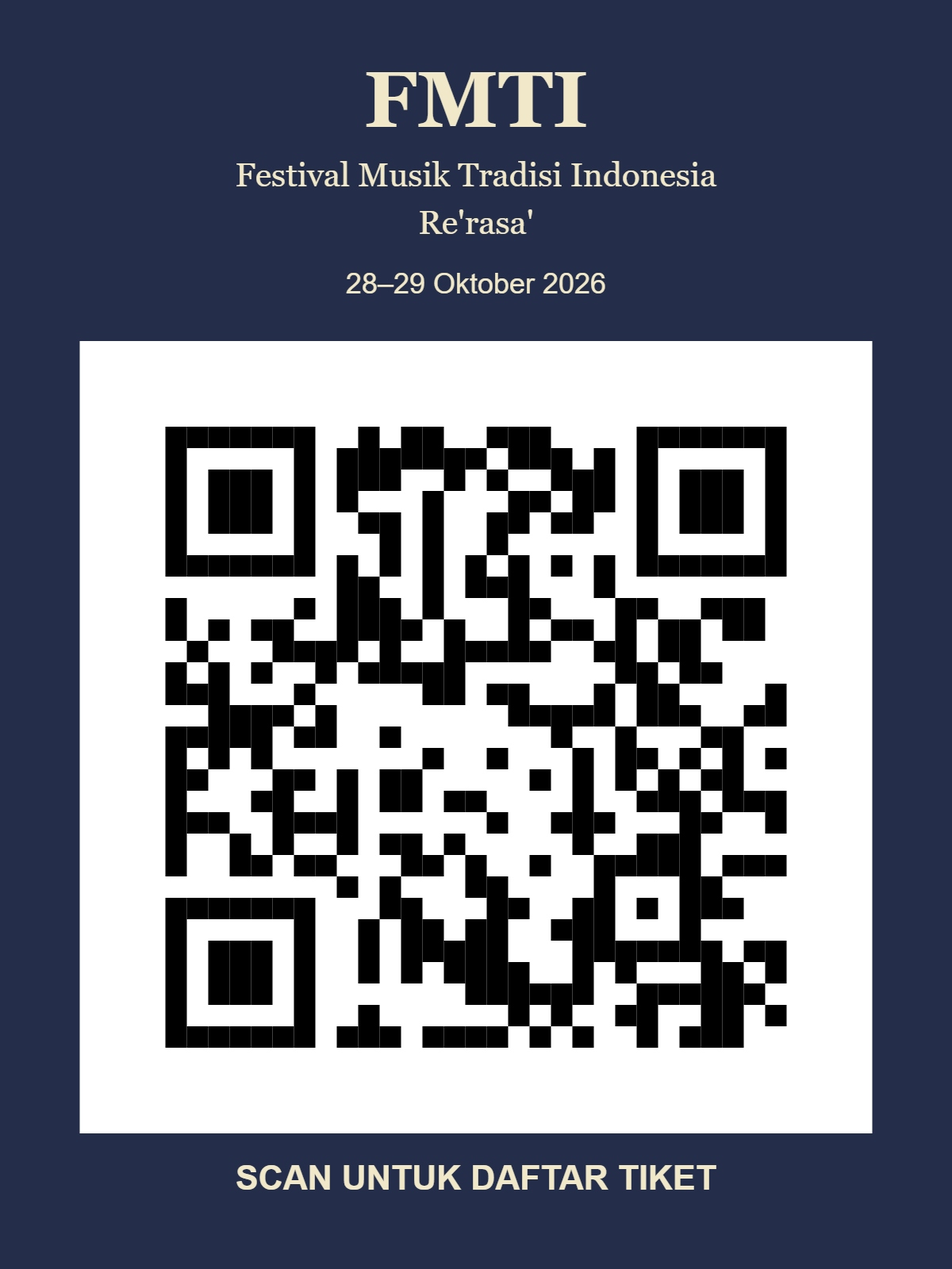
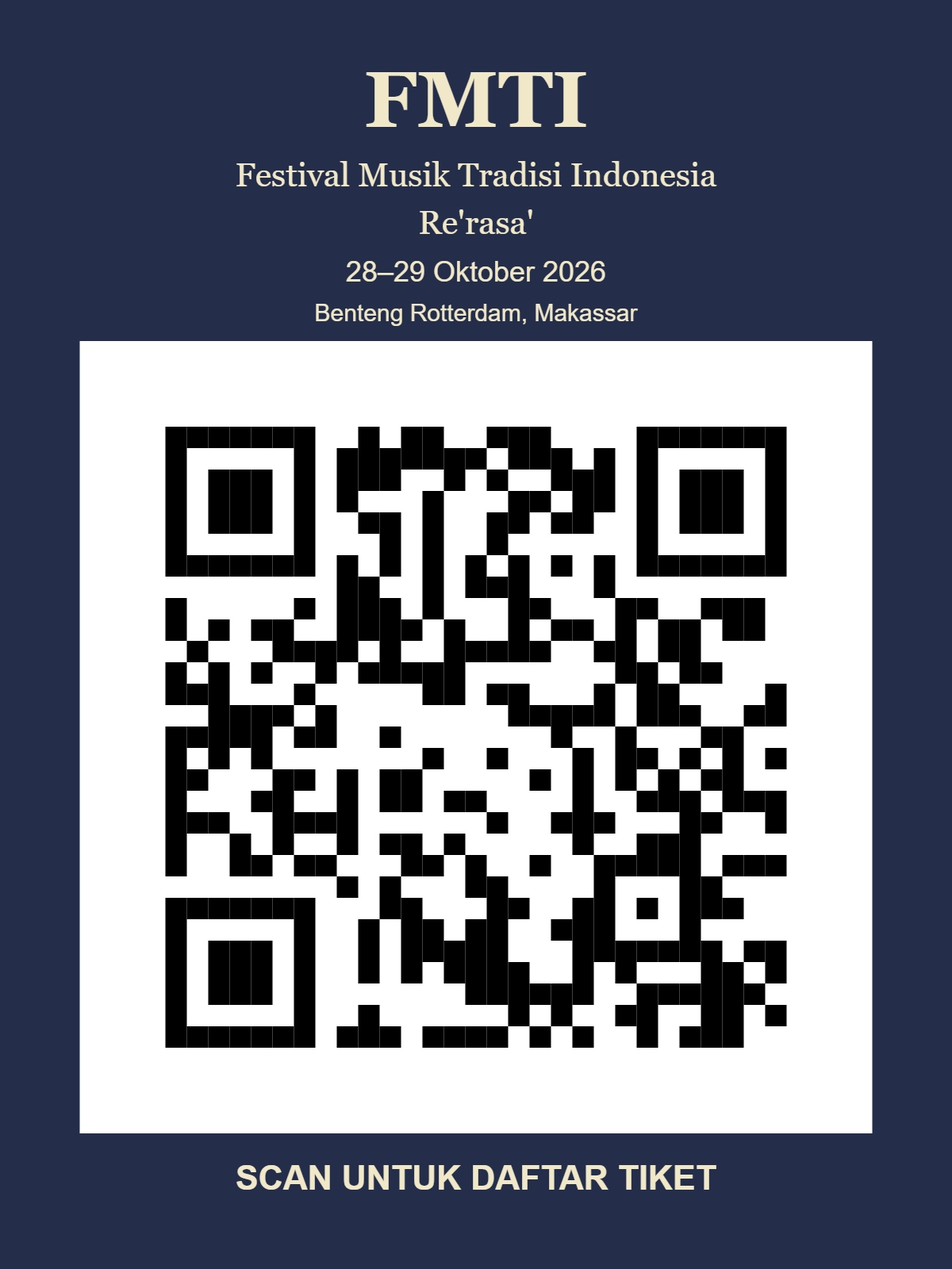
Add Fort Rotterdam venue and manual concert attendance confirmation

Changed region(s): [[0.3392, 0.1875, 0.6475, 0.25]]

diff --git a/concert-admin.js b/concert-admin.js
@@ -2,10 +2,10 @@
 const tabs=active=>'<div class="cms-actions attendance-tabs"><a class="button '+(active==='pameran'?'':'secondary')+'" href="#tamu">Pengunjung pameran</a><a class="button '+(active==='konser'?'':'secondary')+'" href="#konser">Penonton konser FMTI</a></div>';
 const when=value=>value?new Date(value).toLocaleString('id-ID',{timeZone:'Asia/Makassar'}):'Belum check-in';
 async function request(path,data,method){const r=await fetch('/api/admin/concert/'+path,{method:method||(data?'POST':'GET'),cache:'no-store',headers:data?{'Content-Type':'application/json'}:{},...(data?{body:JSON.stringify(data)}:{})});let v;try{v=await r.json()}catch{throw Error('Respons konser belum tersedia.')}if(!r.ok)throw Error(v.error||'Data konser tidak dapat dimuat.');return v}
-const summary=s=>'<div class="concert-stats"><article><strong>'+s.registered+'</strong><span>Tiket terdaftar</span></article><article><strong>'+s.arrivedUnique+'</strong><span>Tiket unik sudah check-in</span></article><article><strong>'+s.day1+'</strong><span>Check-in 28 Oktober</span></article><article><strong>'+s.day2+'</strong><span>Check-in 29 Oktober</span></article></div><p class="quiet">Total kunjungan konser: '+s.checkins+' · Percobaan scan: '+s.scanAttempts+' · Scan ulang: '+s.duplicates+'. Satu tiket check-in dua hari dihitung satu tiket unik dan dua check-in.</p>';
+const summary=s=>'<div class="concert-stats"><article><strong>'+s.registered+'</strong><span>Tiket terdaftar</span></article><article><strong>'+s.arrivedUnique+'</strong><span>Tiket unik sudah check-in</span></article><article><strong>'+s.day1+'</strong><span>Check-in 28 Oktober</span></article><article><strong>'+s.day2+'</strong><span>Check-in 29 Oktober</span></article></div><p class="quiet">Total kunjungan konser: '+s.checkins+' · Pencatatan hadir: '+s.scanAttempts+' · Scan ulang: '+s.duplicates+'. Satu tiket check-in dua hari dihitung satu tiket unik dan dua check-in.</p>';
 async function loadScanners(){try{const rows=await request('scanners');if(!$('scannerSessions'))return;$('scannerSessions').innerHTML=rows.length?rows.map(s=>'<article class="scanner-session"><strong>'+esc(s.label)+'</strong><span>'+esc(s.revoked_at?'Dicabut':'Berlaku hingga '+when(s.expires_at))+'</span>'+(!s.revoked_at?'<button class="secondary" data-revoke-scanner="'+esc(s.id)+'">Cabut akses</button>':'')+'</article>').join(''):'<p>Belum ada akses pemindai.</p>';document.querySelectorAll('[data-revoke-scanner]').forEach(button=>button.onclick=async()=>{if(!confirm('Cabut akses '+button.closest('article').querySelector('strong').textContent+'?'))return;try{await request('scanners/'+button.dataset.revokeScanner,null,'DELETE');loadScanners()}catch(e){$('concertAdminStatus').textContent=e.message}})}catch(e){if($('scannerSessions'))$('scannerSessions').textContent=e.message}}
-function renderConcert(){const epoch=++generation;main.innerHTML=tabs('konser')+'<p class="eyebrow">FMTI / konser 28–29 Oktober 2026</p><h1>Registrasi & kehadiran konser.</h1><p>Data konser terpisah dari pameran. Jumlah hadir resmi hanya bertambah setelah server mengonfirmasi pemindaian panitia.</p><div id="concertStats" role="status">Memuat jumlah…</div><form id="concertFilters" class="cms-guest-filters"><label>Cari nama, kontak, daerah, negara, tiket<input name="q" type="search"></label><label>Hari kehadiran<select name="day"><option value="">Kedua hari</option><option value="2026-10-28">28 Oktober</option><option value="2026-10-29">29 Oktober</option></select></label><label>Status<select name="status"><option value="">Semua status</option><option value="arrived">Sudah check-in</option><option value="pending">Belum check-in</option></select></label><label>Registrasi mulai (WITA)<input name="from" type="date"></label><label>Registrasi sampai (WITA)<input name="to" type="date"></label><div class="cms-actions"><button>Terapkan</button><button type="reset" class="secondary">Reset</button></div></form><div class="cms-actions"><button id="reloadConcert">Muat ulang data</button><a id="exportConcert" class="button secondary" href="/api/admin/concert/guests.csv">Unduh CSV konser</a><a class="button secondary" href="/registrasi" target="_blank" rel="noopener">Buka registrasi ↗</a><a class="button secondary" href="/public/qr-print/QR-REGISTRASI-FMTI.jpg" download>Unduh QR pendaftaran JPG</a></div><p class="quiet">IP registrasi adalah IP jaringan yang dilihat server, dapat dipakai banyak perangkat, dan bukan bukti identitas atau kehadiran.</p><div id="concertRows" role="status">Memuat data…</div><details class="panel"><summary>Log audit pemindaian (200 terakhir)</summary><button id="loadConcertAudit">Muat log sesuai hari filter</button><div id="concertAudit"></div></details><section class="panel"><h2>Akses pemindai panitia</h2><p>Buat satu akses untuk setiap HP. Tautan hanya memberi izin mengunduh daftar tiket terbatas dan mencatat check-in; tidak memberi akses kontak, IP, atau editor website.</p><form id="createScanner"><label>Nama perangkat / gerbang<input name="label" maxlength="80" required placeholder="Gerbang A · HP Panitia 1"></label><button>Buat tautan akses</button></form><p id="concertAdminStatus" role="status"></p><div id="newScannerLink" class="scanner-link-result"></div><div id="scannerSessions"></div><p class="quiet">Sebelum offline, buka tautan pada HP panitia dan tekan Unduh / perbarui daftar. Setelah acara, sinkronkan seluruh antrean sebelum mencabut akses atau menghapus data HP.</p></section>';
-let page=1,loadId=0;async function load(){const id=++loadId,params=new URLSearchParams(new FormData($('concertFilters')));params.set('page',page);$('exportConcert').href='/api/admin/concert/guests.csv?'+params;try{const [stats,result]=await Promise.all([request('stats'),request('guests?'+params)]);if(epoch!==generation||id!==loadId||!$('concertRows'))return;$('concertStats').innerHTML=summary(stats);$('concertRows').innerHTML='<p>'+result.total+' hasil · halaman '+result.page+' / '+result.pages+'</p><div class="guest-table-wrap"><table class="guest-table"><thead><tr><th>Nama / tiket</th><th>Kontak</th><th>Asal</th><th>Registrasi WITA</th><th>IP registrasi</th><th>28 Oktober</th><th>29 Oktober</th></tr></thead><tbody>'+result.rows.map(g=>'<tr><td>'+esc(g.name)+'<br><small>'+esc(g.code)+'</small></td><td>'+esc(g.contact)+'</td><td>'+esc([g.city,g.country].filter(Boolean).join(' · '))+'</td><td>'+esc(when(g.registered_at))+'</td><td>'+esc(g.registration_ip||'Tidak tersedia')+'</td><td>'+esc(when(g.day1_checked_in_at))+'</td><td>'+esc(when(g.day2_checked_in_at))+'</td></tr>').join('')+'</tbody></table></div>'+(!result.rows.length?'<p>Belum ada data yang sesuai.</p>':'')+'<div class="cms-actions"><button id="concertPrev" class="secondary" '+(page<=1?'disabled':'')+'>← Sebelumnya</button><button id="concertNext" class="secondary" '+(page>=result.pages?'disabled':'')+'>Berikutnya →</button></div>';$('concertPrev').onclick=()=>{page--;load()};$('concertNext').onclick=()=>{page++;load()}}catch(e){if($('concertRows'))$('concertRows').textContent=e.message;if($('concertStats'))$('concertStats').textContent='Jumlah belum dapat dimuat.'}}
+function renderConcert(){const epoch=++generation;main.innerHTML=tabs('konser')+'<p class="eyebrow">FMTI / konser 28–29 Oktober 2026</p><h1>Registrasi & kehadiran konser.</h1><p>Seluruh pendaftar tiket tampil di tabel ini, termasuk yang belum dipindai. Saat kamera bermasalah, periksa tiket yang ditunjukkan lalu gunakan konfirmasi hadir manual. Angka terdaftar dan hadir dihitung terpisah.</p><div id="concertStats" role="status">Memuat jumlah…</div><form id="concertFilters" class="cms-guest-filters"><label>Cari nama, kontak, daerah, negara, tiket<input name="q" type="search"></label><label>Hari kehadiran<select name="day"><option value="">Kedua hari</option><option value="2026-10-28">28 Oktober</option><option value="2026-10-29">29 Oktober</option></select></label><label>Status<select name="status"><option value="">Semua status</option><option value="arrived">Sudah check-in</option><option value="pending">Belum check-in</option></select></label><label>Registrasi mulai (WITA)<input name="from" type="date"></label><label>Registrasi sampai (WITA)<input name="to" type="date"></label><div class="cms-actions"><button>Terapkan</button><button type="reset" class="secondary">Reset</button></div></form><div class="cms-actions"><button id="reloadConcert">Muat ulang data</button><a id="exportConcert" class="button secondary" href="/api/admin/concert/guests.csv">Unduh CSV konser</a><a class="button secondary" href="/registrasi" target="_blank" rel="noopener">Buka registrasi ↗</a><a class="button secondary" href="/public/qr-print/QR-REGISTRASI-FMTI.jpg" download>Unduh QR pendaftaran JPG</a></div><p class="quiet">IP registrasi adalah IP jaringan yang dilihat server, dapat dipakai banyak perangkat, dan bukan bukti identitas atau kehadiran.</p><div id="concertRows" role="status">Memuat data…</div><details class="panel"><summary>Log audit pemindaian (200 terakhir)</summary><button id="loadConcertAudit">Muat log sesuai hari filter</button><div id="concertAudit"></div></details><section class="panel"><h2>Akses pemindai panitia</h2><p>Buat satu akses untuk setiap HP. Tautan hanya memberi izin mengunduh daftar tiket terbatas dan mencatat check-in; tidak memberi akses kontak, IP, atau editor website.</p><form id="createScanner"><label>Nama perangkat / gerbang<input name="label" maxlength="80" required placeholder="Gerbang A · HP Panitia 1"></label><button>Buat tautan akses</button></form><p id="concertAdminStatus" role="status"></p><div id="newScannerLink" class="scanner-link-result"></div><div id="scannerSessions"></div><p class="quiet">Sebelum offline, buka tautan pada HP panitia dan tekan Unduh / perbarui daftar. Setelah acara, sinkronkan seluruh antrean sebelum mencabut akses atau menghapus data HP.</p></section>';
+let page=1,loadId=0;async function load(){const id=++loadId,params=new URLSearchParams(new FormData($('concertFilters')));params.set('page',page);$('exportConcert').href='/api/admin/concert/guests.csv?'+params;try{const [stats,result]=await Promise.all([request('stats'),request('guests?'+params)]);if(epoch!==generation||id!==loadId||!$('concertRows'))return;$('concertStats').innerHTML=summary(stats);$('concertRows').innerHTML='<p>'+result.total+' hasil · halaman '+result.page+' / '+result.pages+'</p><div class="guest-table-wrap"><table class="guest-table"><thead><tr><th>Nama / tiket</th><th>Kontak</th><th>Asal</th><th>Registrasi WITA</th><th>IP registrasi</th><th>28 Oktober</th><th>29 Oktober</th><th>Konfirmasi tanpa scan</th></tr></thead><tbody>'+result.rows.map(g=>'<tr><td>'+esc(g.name)+'<br><small>'+esc(g.code)+'</small></td><td>'+esc(g.contact)+'</td><td>'+esc([g.city,g.country].filter(Boolean).join(' · '))+'</td><td>'+esc(when(g.registered_at))+'</td><td>'+esc(g.registration_ip||'Tidak tersedia')+'</td><td>'+esc(when(g.day1_checked_in_at))+'</td><td>'+esc(when(g.day2_checked_in_at))+'</td><td><button class="secondary" data-manual-code="'+esc(g.code)+'" data-manual-name="'+esc(g.name)+'">Konfirmasi hadir</button></td></tr>').join('')+'</tbody></table></div>'+(!result.rows.length?'<p>Belum ada data yang sesuai.</p>':'')+'<div class="cms-actions"><button id="concertPrev" class="secondary" '+(page<=1?'disabled':'')+'>← Sebelumnya</button><button id="concertNext" class="secondary" '+(page>=result.pages?'disabled':'')+'>Berikutnya →</button></div>';document.querySelectorAll('[data-manual-code]').forEach(button=>button.onclick=async()=>{const day=new Intl.DateTimeFormat('en-CA',{timeZone:'Asia/Makassar',year:'numeric',month:'2-digit',day:'2-digit'}).format(new Date());if(!['2026-10-28','2026-10-29'].includes(day)){alert('Konfirmasi hadir hanya pada 28 atau 29 Oktober 2026, sesuai tanggal WITA.');return}if(!confirm('Tiket '+button.dataset.manualCode+' atas nama '+button.dataset.manualName+' sudah ditunjukkan dan pengunjung hadir di gerbang pada '+day+'?'))return;button.disabled=true;try{const value=await request('manual-checkin',{code:button.dataset.manualCode,eventDate:day,requestId:crypto.randomUUID()});alert(value.status==='checked_in'?'Kehadiran tercatat.':'Tiket sudah check-in hari ini.');load()}catch(e){alert(e.message);button.disabled=false}});$('concertPrev').onclick=()=>{page--;load()};$('concertNext').onclick=()=>{page++;load()}}catch(e){if($('concertRows'))$('concertRows').textContent=e.message;if($('concertStats'))$('concertStats').textContent='Jumlah belum dapat dimuat.'}}
 $('loadConcertAudit').onclick=async()=>{try{const day=$('concertFilters').elements.day.value,rows=await request('audit?'+new URLSearchParams({day}));$('concertAudit').innerHTML='<div class="guest-table-wrap"><table class="guest-table"><thead><tr><th>Tiket</th><th>Hari</th><th>Hasil</th><th>Waktu HP (WITA)</th><th>Diterima server (WITA)</th><th>IP panitia</th><th>Mode</th></tr></thead><tbody>'+rows.map(r=>'<tr><td>'+esc(r.ticket_code||'Tidak ditemukan')+'</td><td>'+esc(r.event_date)+'</td><td>'+esc(r.status)+'</td><td>'+esc(when(r.client_scanned_at))+'</td><td>'+esc(when(r.server_received_at))+'</td><td>'+esc(r.scanner_ip||'Tidak tersedia')+'</td><td>'+esc(r.offline?'Offline → sinkron':'Online')+'</td></tr>').join('')+'</tbody></table></div>'}catch(e){$('concertAudit').textContent=e.message}};
 $('concertFilters').onsubmit=e=>{e.preventDefault();page=1;load()};$('concertFilters').onreset=()=>setTimeout(()=>{page=1;load()},0);$('reloadConcert').onclick=load;$('createScanner').onsubmit=async e=>{e.preventDefault();if(!e.target.reportValidity())return;const button=e.target.querySelector('button');button.disabled=true;try{const value=await request('scanners',{label:e.target.elements.label.value});$('newScannerLink').innerHTML='<p><strong>'+esc(value.label)+'</strong> · tautan rahasia ditampilkan sekali:</p><input id="scannerInvite" readonly value="'+esc(value.url)+'"><div class="cms-actions"><button id="copyScannerInvite">Salin tautan</button><a class="button secondary" target="_blank" rel="noopener" href="'+esc(value.url)+'">Buka pemindai ↗</a></div>';$('copyScannerInvite').onclick=async()=>{try{await navigator.clipboard.writeText(value.url);$('concertAdminStatus').textContent='Tautan disalin.'}catch{$('scannerInvite').select();$('concertAdminStatus').textContent='Salin teks tautan yang dipilih.'}};$('concertAdminStatus').textContent='Kirim tautan hanya kepada panitia yang ditugaskan. Jangan tampilkan ke pengunjung.';loadScanners()}catch(error){$('concertAdminStatus').textContent=error.message}finally{button.disabled=false}};load();loadScanners();}
 render=function(){const page=location.hash.slice(1).split('/')[0];if(page==='konser'){cmsDispose?.();renderConcert();document.title='FMTI — Data penonton konser';return}generation++;oldRender();if(page==='tamu')main.insertAdjacentHTML('afterbegin',tabs('pameran'));if(page==='dashboard'){main.insertAdjacentHTML('beforeend','<section class="panel"><h2>Data pengunjung & konser</h2>'+tabs('')+'<div id="dashboardConcertCounts">Memuat total konser…</div><p><a href="/registrasi" target="_blank" rel="noopener">Halaman registrasi konser ↗</a></p></section>');request('stats').then(stats=>{if($('dashboardConcertCounts'))$('dashboardConcertCounts').innerHTML=summary(stats)}).catch(error=>{if($('dashboardConcertCounts'))$('dashboardConcertCounts').textContent=error.message})}};

diff --git a/concert-registration.js b/concert-registration.js
@@ -7,10 +7,10 @@ function render(){shell();if(ticket?.token&&ticket?.code){renderTicket();return}
  form.onsubmit=async e=>{e.preventDefault();if(!form.reportValidity())return;const v=Object.fromEntries(new FormData(form)),digits=v.contact.replace(/\D/g,'');if(!/^\+?[\d\s().-]+$/.test(v.contact.trim())||digits.length<7||digits.length>15){status(t('Nomor kontak tidak valid.','Invalid phone number.'),true);return}if(!draft){draft={requestId:crypto.randomUUID(),token:random()};try{sessionStorage.setItem('fmti-concert-request',JSON.stringify(draft))}catch{}}const button=form.querySelector('button');button.disabled=true;status(t('Membuat tiket…','Creating ticket…'));try{const result=await api('register',{...v,...draft});ticket={...result,token:draft.token};try{localStorage.setItem('fmti-concert-ticket',JSON.stringify(ticket));sessionStorage.removeItem('fmti-concert-request')}catch{}draft=null;history.replaceState(null,'','/registrasi');renderTicket()}catch(error){status(error.message,true);button.disabled=false}};
 }
 function qrURL(){return (info?.origin||location.origin)+'/registrasi#t='+ticket.token+(ticket.proof?'&p='+ticket.proof:'')}
-function renderTicket(){shell();document.body.classList.add('ticket-mode');const q=qrcode(0,'M');q.addData(qrURL());q.make();main.innerHTML='<article class="ticket concert-pass"><div class="pass-heading"><span class="eyebrow">'+t('TIKET MASUK / KONSER','ADMISSION / CONCERT')+'</span><h1>FMTI</h1><p>Festival Musik Tradisi Indonesia Re\'rasa\'</p></div><div class="pass-date">28–29 '+t('Oktober','October')+' 2026 · WITA</div><div class="pass-person"><h3>'+esc(ticket.name)+'</h3><p>'+esc([ticket.city,ticket.country].filter(Boolean).join(' · '))+'</p></div><div class="pass-qr">'+q.createImgTag(5,20)+'</div><p class="code">'+esc(ticket.code)+'</p><p class="pass-hint">'+t('Tunjukkan QR di gerbang · Satu check-in setiap hari','Show QR at the gate · One check-in each day')+'</p><div class="actions no-print"><button id="saveConcertTicket">'+t('Simpan JPG','Save JPG')+'</button><button id="printConcertTicket" class="secondary">'+t('Cetak','Print')+'</button></div></article><button id="anotherConcertGuest" class="another-guest secondary no-print">'+t('Daftarkan penonton lain','Register another guest')+'</button><p id="registrationStatus" class="status" role="status"></p>';
+function renderTicket(){shell();document.body.classList.add('ticket-mode');const q=qrcode(0,'M');q.addData(qrURL());q.make();main.innerHTML='<article class="ticket concert-pass"><div class="pass-heading"><span class="eyebrow">'+t('TIKET MASUK KONSER','CONCERT ADMISSION TICKET')+'</span><h1>FMTI</h1><p>Festival Musik Tradisi Indonesia Re\'rasa\'</p></div><div class="pass-date">28–29 '+t('Oktober','October')+' 2026 · WITA<br><strong>Benteng Rotterdam, Makassar</strong></div><div class="pass-person"><h3>'+esc(ticket.name)+'</h3><p>'+esc([ticket.city,ticket.country].filter(Boolean).join(' · '))+'</p></div><div class="pass-qr">'+q.createImgTag(5,20)+'</div><p class="code">'+esc(ticket.code)+'</p><p class="pass-hint">'+t('Tunjukkan tiket ini kepada panitia di gerbang','Show this ticket to staff at the gate')+'</p><div class="actions no-print"><button id="saveConcertTicket">'+t('Simpan JPG','Save JPG')+'</button><button id="printConcertTicket" class="secondary">'+t('Cetak','Print')+'</button></div></article><button id="anotherConcertGuest" class="another-guest secondary no-print">'+t('Daftarkan penonton lain','Register another guest')+'</button><p id="registrationStatus" class="status" role="status"></p>';
  document.getElementById('printConcertTicket').onclick=()=>print();document.getElementById('saveConcertTicket').onclick=saveJpg;document.getElementById('anotherConcertGuest').onclick=()=>{if(!confirm(t('Pastikan tiket sudah disimpan. Daftarkan penonton lain?','Save your ticket first. Register another guest?')))return;ticket=null;draft=null;document.body.classList.remove('ticket-mode');try{localStorage.removeItem('fmti-concert-ticket');sessionStorage.removeItem('fmti-concert-request')}catch{}render()};
 }
-function saveJpg(){const canvas=document.createElement('canvas');canvas.width=1200;canvas.height=1700;const c=canvas.getContext('2d');c.fillStyle='#242d49';c.fillRect(0,0,1200,1700);c.fillStyle='#f1e8c9';c.textAlign='center';c.font='bold 70px Georgia';c.fillText('FMTI',600,100);c.font='32px Georgia';c.fillText("Festival Musik Tradisi Indonesia Re'rasa'",600,155);c.font='34px Arial';c.fillText('28–29 Oktober 2026 · WITA',600,190);const q=qrcode(0,'M');q.addData(qrURL());q.make();const n=q.getModuleCount(),cell=Math.floor(1000/(n+8)),size=(n+8)*cell,left=Math.floor((1200-size)/2),top=250;c.fillStyle='#fff';c.fillRect(left,top,size,size);c.fillStyle='#000';for(let r=0;r<n;r++)for(let col=0;col<n;col++)if(q.isDark(r,col))c.fillRect(left+(col+4)*cell,top+(r+4)*cell,cell,cell);c.fillStyle='#f1e8c9';let font=58;while(font>26){c.font='bold '+font+'px Georgia';if(c.measureText(ticket.name).width<=1080)break;font-=2}c.fillText(ticket.name,600,1360,1080);c.font='38px Arial';c.fillText(ticket.code,600,1430);c.font='27px Arial';c.fillText(t('Satu check-in per hari · Tunjukkan kepada panitia','One check-in each day · Show to gate staff'),600,1510);canvas.toBlob(blob=>{if(!blob)return;const url=URL.createObjectURL(blob),a=document.createElement('a');a.href=url;a.download='FMTI-'+ticket.code+'.jpg';a.click();setTimeout(()=>URL.revokeObjectURL(url),30000)},'image/jpeg',.98)}
+function saveJpg(){const canvas=document.createElement('canvas');canvas.width=1200;canvas.height=1700;const c=canvas.getContext('2d');c.fillStyle='#242d49';c.fillRect(0,0,1200,1700);c.fillStyle='#f1e8c9';c.textAlign='center';c.font='bold 70px Georgia';c.fillText('FMTI',600,100);c.font='32px Georgia';c.fillText("Festival Musik Tradisi Indonesia Re'rasa'",600,155);c.font='34px Arial';c.fillText('28–29 Oktober 2026 · WITA',600,200);c.font='27px Arial';c.fillText('TIKET MASUK KONSER · Benteng Rotterdam, Makassar',600,240);const q=qrcode(0,'M');q.addData(qrURL());q.make();const n=q.getModuleCount(),cell=Math.floor(1000/(n+8)),size=(n+8)*cell,left=Math.floor((1200-size)/2),top=250;c.fillStyle='#fff';c.fillRect(left,top,size,size);c.fillStyle='#000';for(let r=0;r<n;r++)for(let col=0;col<n;col++)if(q.isDark(r,col))c.fillRect(left+(col+4)*cell,top+(r+4)*cell,cell,cell);c.fillStyle='#f1e8c9';let font=58;while(font>26){c.font='bold '+font+'px Georgia';if(c.measureText(ticket.name).width<=1080)break;font-=2}c.fillText(ticket.name,600,1360,1080);c.font='38px Arial';c.fillText(ticket.code,600,1430);c.font='27px Arial';c.fillText(t('Satu check-in per hari · Tunjukkan kepada panitia','One check-in each day · Show to gate staff'),600,1510);canvas.toBlob(blob=>{if(!blob)return;const url=URL.createObjectURL(blob),a=document.createElement('a');a.href=url;a.download='FMTI-'+ticket.code+'.jpg';a.click();setTimeout(()=>URL.revokeObjectURL(url),30000)},'image/jpeg',.98)}
 document.querySelectorAll('[data-lang]').forEach(b=>b.onclick=()=>{const form=document.getElementById('concertForm'),values=form?Object.fromEntries(new FormData(form)):null;lang=b.dataset.lang;try{localStorage.setItem('rerasa-language',lang)}catch{}render();if(values&&document.getElementById('concertForm')){const f=document.getElementById('concertForm');for(const [k,v]of Object.entries(values))if(f.elements[k]){if(k==='consent')f.elements[k].checked=true;else f.elements[k].value=v}f.elements.originType.onchange()}});
 (async()=>{try{info=await api('info');const params=new URLSearchParams(location.hash.slice(1)),token=params.get('t');if(token&&/^[a-f0-9]{64}$/.test(token)){const found=await api('ticket',{token});ticket={...found,token};try{localStorage.setItem('fmti-concert-ticket',JSON.stringify(ticket))}catch{}history.replaceState(null,'','/registrasi')}render()}catch(error){main.innerHTML=intro()+'<p class="error" role="status">'+esc(error.message)+'</p><button id="retryRegistration">'+t('Coba lagi','Try again')+'</button>';document.getElementById('retryRegistration').onclick=()=>location.reload()}})();
 })();

diff --git a/concert.css b/concert.css
@@ -7,3 +7,5 @@
 /* Compact admission pass fits the available phone viewport. */
 .ticket-mode{min-height:100svh;display:flex;flex-direction:column}.ticket-mode header{width:100%;padding:10px 16px}.ticket-mode header .brand{font-size:20px}.ticket-mode header .brand small{font-size:10px;letter-spacing:.3px;max-width:230px;margin-top:3px}.ticket-mode header .language{gap:4px}.ticket-mode header .language button{min-height:36px;min-width:36px;padding:5px}.ticket-mode main{width:100%;flex:1;padding:10px 16px;display:flex;flex-direction:column;align-items:center;justify-content:center}.ticket-mode footer,.ticket-mode .status:empty{display:none}.concert-pass{width:min(100%,420px);margin:0;padding:16px;position:relative;background:linear-gradient(145deg,#354361,#29334e);box-shadow:0 12px 35px #10172c50}.pass-heading h1{font-size:36px;margin:2px 0}.pass-heading p{font-size:13px;margin:2px 0 10px}.pass-heading .eyebrow{font-size:9px}.pass-date{border-block:1px dashed #f1e8c960;padding:8px;font-size:13px}.pass-person h3{font-size:22px;line-height:1.15;margin:12px 0 3px}.pass-person p{font-size:12px;margin:0}.pass-qr img{width:auto;height:auto;max-width:100%;max-height:min(34svh,280px);margin:12px auto}.concert-pass .code{font-size:12px;margin:4px 0}.pass-hint{font-size:11px;margin:6px 0 12px}.concert-pass .actions{gap:8px}.concert-pass .actions button{min-height:40px;padding:8px;font-size:13px;flex:1}.another-guest{margin-top:8px;min-height:36px;padding:6px 12px;font-size:12px;border:0}.ticket-mode .pass-person h3{display:-webkit-box;-webkit-line-clamp:2;-webkit-box-orient:vertical;overflow:hidden}@media(max-height:700px){.concert-pass{padding:10px 14px}.pass-heading h1{font-size:28px}.pass-person h3{font-size:19px;margin-top:7px}.pass-qr img{max-height:25svh;margin:6px auto}.pass-date{padding:5px}.pass-hint{margin:4px 0 8px}.ticket-mode header{padding:7px 14px}}@media print{.ticket-mode main{display:block}.concert-pass{box-shadow:none;margin:auto}.pass-qr img{max-height:none;width:280px}}
 @media screen and (max-height:600px){.ticket-mode main{padding:5px 12px}.concert-pass{padding:8px 12px}.pass-qr img{max-height:21svh;margin:5px auto}.pass-person h3{font-size:17px;margin-top:5px}.pass-heading p{margin-bottom:5px}.pass-hint{font-size:10px}.another-guest{margin-top:3px;min-height:30px}}
+
+.concert-pass .pass-heading .eyebrow{display:inline-block;font-size:12px;letter-spacing:1px;background:#f1e8c9;color:#242d49;border-radius:4px;padding:5px 9px}.pass-date strong{font-size:12px}@media screen and (max-height:600px){.concert-pass .pass-heading .eyebrow{font-size:10px;padding:3px 6px}.pass-qr img{max-height:18svh}}

diff --git a/KONSER-FMTI-PANDUAN.md b/KONSER-FMTI-PANDUAN.md
@@ -43,3 +43,5 @@ Dokumentasi teknis:
 - https://developer.mozilla.org/en-US/docs/Web/API/BarcodeDetector
 
 QR tiket baru dilengkapi tanda tangan digital. Setelah mengunduh daftar/kunci verifikasi, pemindai dapat memeriksa tiket bertanda tangan walaupun registrasinya lebih baru daripada daftar offline. Tiket tanpa tanda tangan yang cocok tetap memerlukan daftar atau koneksi. Duplikasi antar-HP offline baru direkonsiliasi saat sinkronisasi.
+
+Lokasi: Benteng Rotterdam, Makassar. Semua pendaftar tampil pada tabel konser tanpa harus scan. Jika kamera gagal, admin dapat mencari nama/kode tiket dan menekan Konfirmasi hadir setelah memeriksa tiket serta kehadiran pengunjung di gerbang. Hanya dapat dicatat pada hari acara WITA; menggunakan aturan satu check-in per tiket per hari yang sama dengan scanner. Audit operator diberi label Konfirmasi manual admin.
